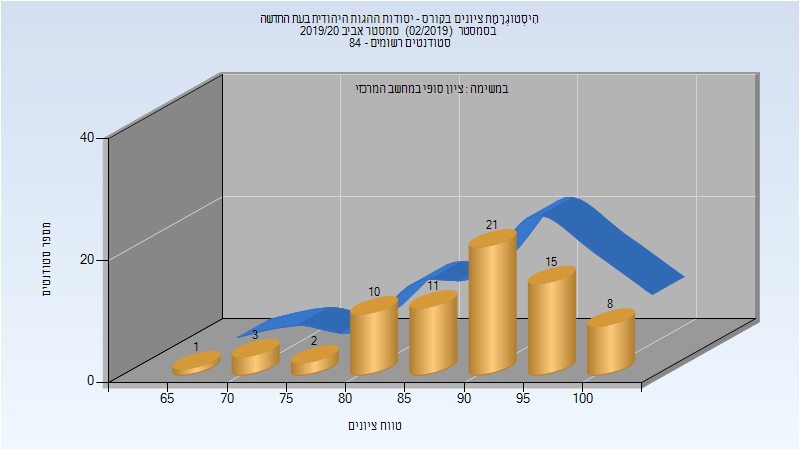
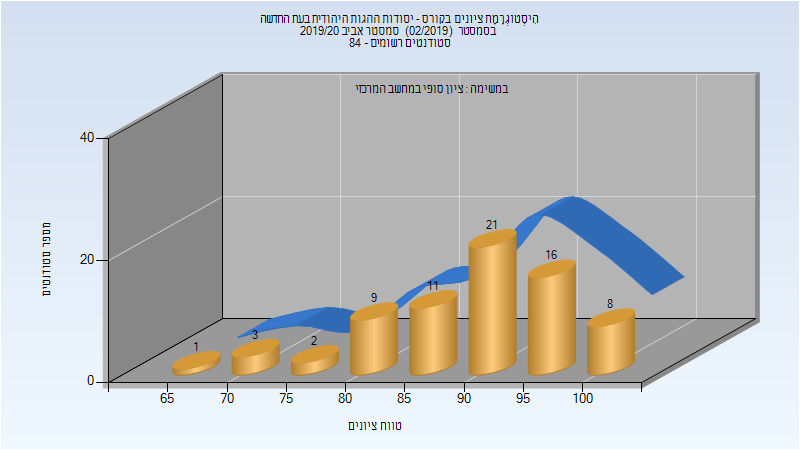
Deploy michael-maltsev/technion-histograms to github.com/michael-maltsev/technion-histograms.git:gh-pages

diff --git a/324294/index.html b/324294/index.html
@@ -293,19 +293,19 @@
 <td>מרצה - אחראי מקצוע</td>
 </tr>
 <tr>
-<td>בורנשטיין יעל</td>
-<td>סגל מנהלי - עם הרשאות מרצה אחראי</td>
-</tr>
-<tr>
-<td>הראל אילנה</td>
-<td>סגל מנהלי - עם הרשאות מרצה אחראי</td>
-</tr>
-<tr>
 <td>איסמן ליסה</td>
 <td>סגל מנהלי - עם הרשאות מרצה אחראי</td>
 </tr>
 <tr>
+<td>בורנשטיין יעל</td>
+<td>סגל מנהלי - עם הרשאות מרצה אחראי</td>
+</tr>
+<tr>
 <td>בן ענת רוחמה</td>
+<td>סגל מנהלי - עם הרשאות מרצה אחראי</td>
+</tr>
+<tr>
+<td>הראל אילנה</td>
 <td>סגל מנהלי - עם הרשאות מרצה אחראי</td>
 </tr>
 </tbody>
@@ -383,8 +383,8 @@
 <td>100</td>
 <td>65</td>
 <td>100</td>
-<td>90.268</td>
-<td>91</td>
+<td>90.521</td>
+<td>92</td>
 </tr>
 </tbody>
 </table>

diff --git a/104013/index.html b/104013/index.html
@@ -2153,11 +2153,11 @@
 <tbody>
 <tr>
 <td>455</td>
-<td>411/44</td>
-<td>90</td>
+<td>412/43</td>
+<td>91</td>
 <td>2</td>
 <td>100</td>
-<td>79.354</td>
+<td>79.514</td>
 <td>84</td>
 </tr>
 </tbody>

diff --git a/324294/README.md b/324294/README.md
@@ -89,10 +89,10 @@
 | איש סגל | תפקיד |
 | ---- | ---- |
 | דוקוב אלעד | מרצה - אחראי מקצוע |
-| בורנשטיין יעל | סגל מנהלי - עם הרשאות מרצה אחראי |
-| הראל אילנה | סגל מנהלי - עם הרשאות מרצה אחראי |
 | איסמן ליסה | סגל מנהלי - עם הרשאות מרצה אחראי |
+| בורנשטיין יעל | סגל מנהלי - עם הרשאות מרצה אחראי |
 | בן ענת רוחמה | סגל מנהלי - עם הרשאות מרצה אחראי |
+| הראל אילנה | סגל מנהלי - עם הרשאות מרצה אחראי |
 
 ### סופי מועד א'
 
@@ -116,5 +116,5 @@
 
 | סטודנטים | עברו/נכשלו | אחוז עוברים | ציון מינימלי | ציון מקסימלי | ממוצע | חציון |
 | ---- | ---- | ---- | ---- | ---- | ---- | ---- |
-| 71 | 71/0 | 100 | 65 | 100 | 90.268 | 91 |
+| 71 | 71/0 | 100 | 65 | 100 | 90.521 | 92 |
 

diff --git a/104013/README.md b/104013/README.md
@@ -678,5 +678,5 @@
 
 | סטודנטים | עברו/נכשלו | אחוז עוברים | ציון מינימלי | ציון מקסימלי | ממוצע | חציון |
 | ---- | ---- | ---- | ---- | ---- | ---- | ---- |
-| 455 | 411/44 | 90 | 2 | 100 | 79.354 | 84 |
+| 455 | 412/43 | 91 | 2 | 100 | 79.514 | 84 |
 
